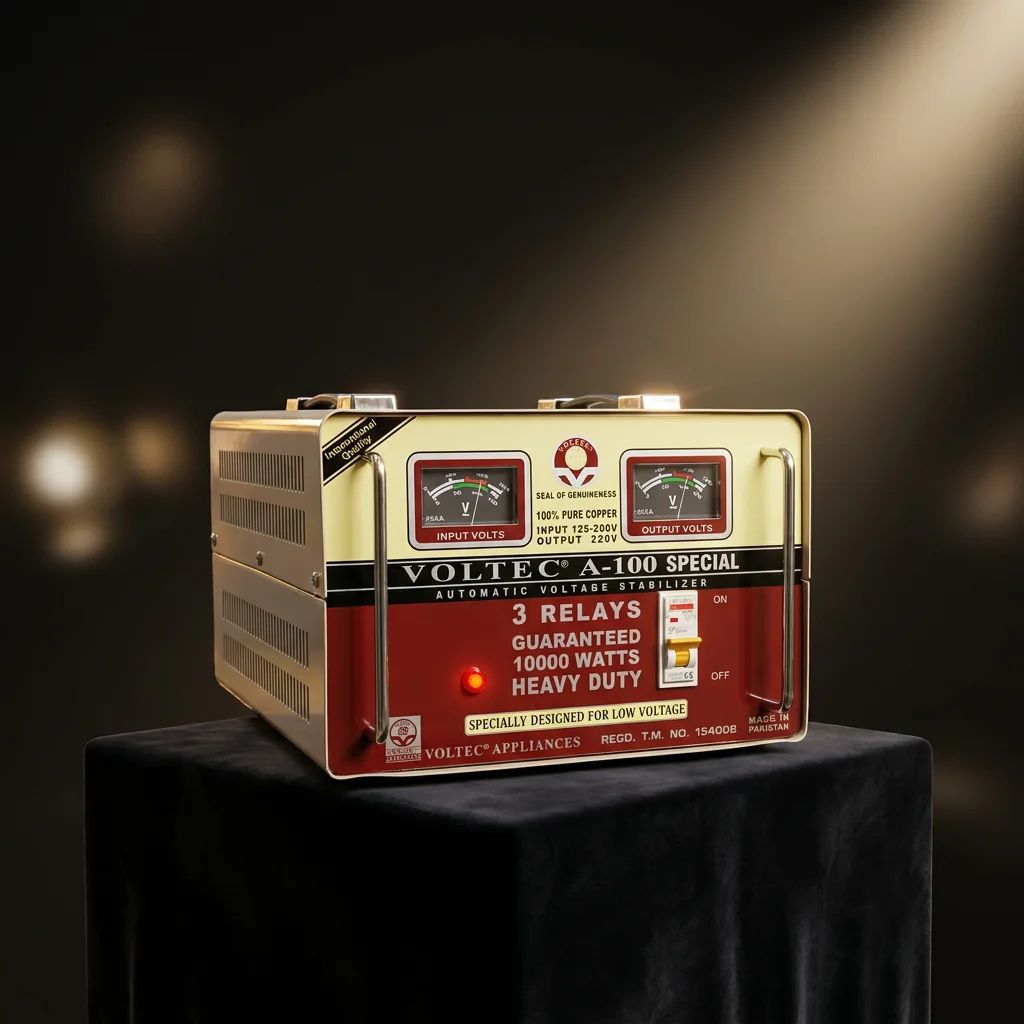
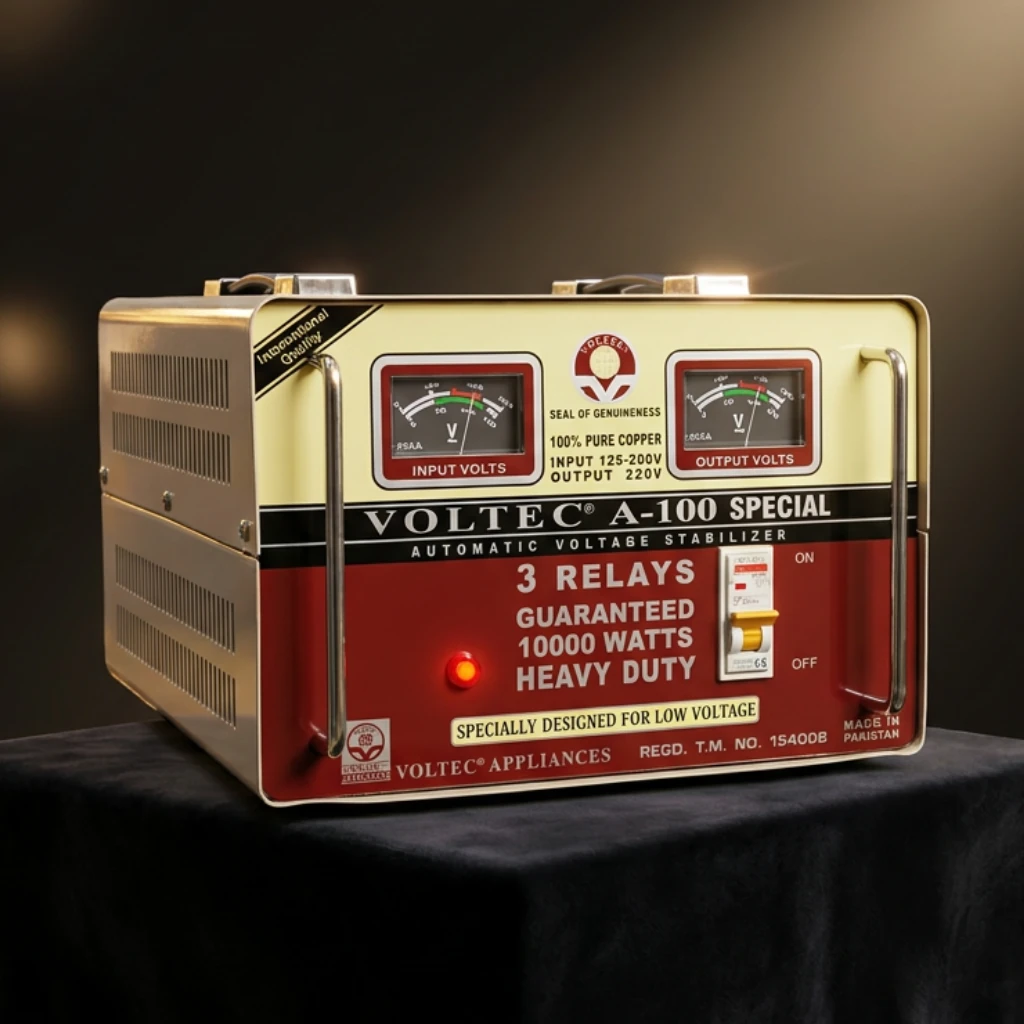
AVR: optimize R2/R3 photos to webp (~1MB → ~70KB)
Same images, converted to webp (q90) and PNGs removed — faster load on
mobile/Facebook traffic.

diff --git a/lib/products.ts b/lib/products.ts
@@ -538,7 +538,7 @@ export const PRODUCTS: Product[] = [
     highlight: ["R2", "from 150V"],
     description:
       "Voltec A-100 R2 — a 10,000W automatic voltage stabilizer for a 1 to 1.5 ton air-conditioner. Holds a steady 220V across a 150V–270V input, with 99.99% pure copper and relay correction that protects the compressor. For areas with lighter voltage sag.",
-    image: "assets/r2_voltec.png",
+    image: "assets/r2_voltec.webp",
     specs: [
       ["Model", "Voltec A-100 R2"],
       ["Capacity", "10000W"],
@@ -559,7 +559,7 @@ export const PRODUCTS: Product[] = [
     highlight: ["R3", "from 120V"],
     description:
       "Voltec A-100 R3 — the most popular AC stabilizer. 10,000W, holds a steady 220V across a wide 120V–270V input for inverter and normal 1 to 1.5 ton ACs. 99.99% pure copper, relay correction and compressor protection.",
-    image: "assets/r3_voltec.png",
+    image: "assets/r3_voltec.webp",
     specs: [
       ["Model", "Voltec A-100 R3"],
       ["Capacity", "10000W"],